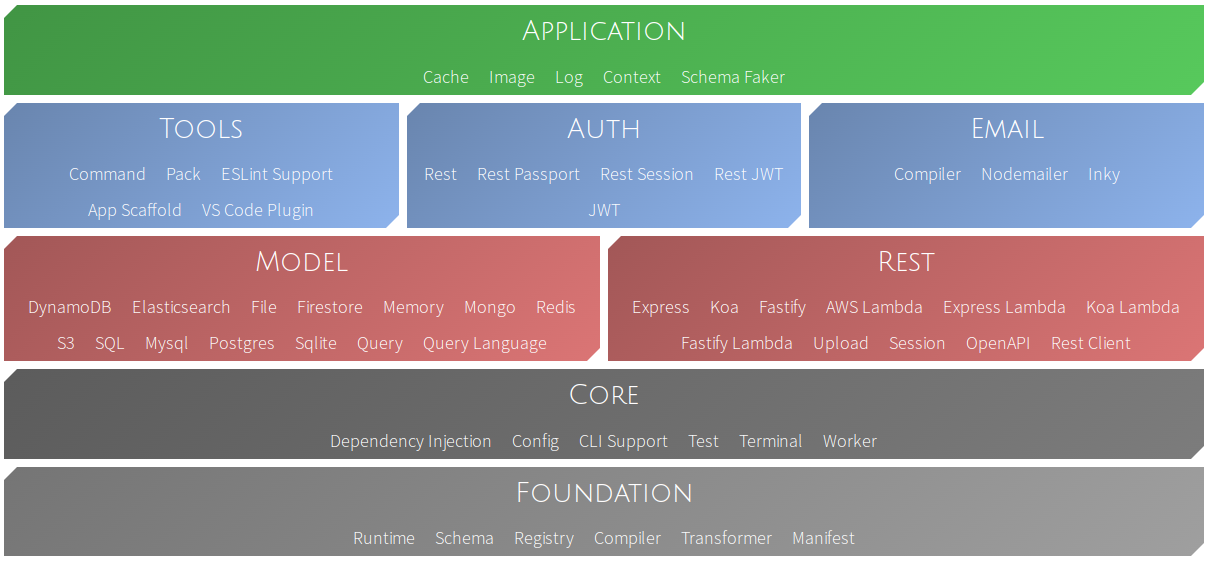
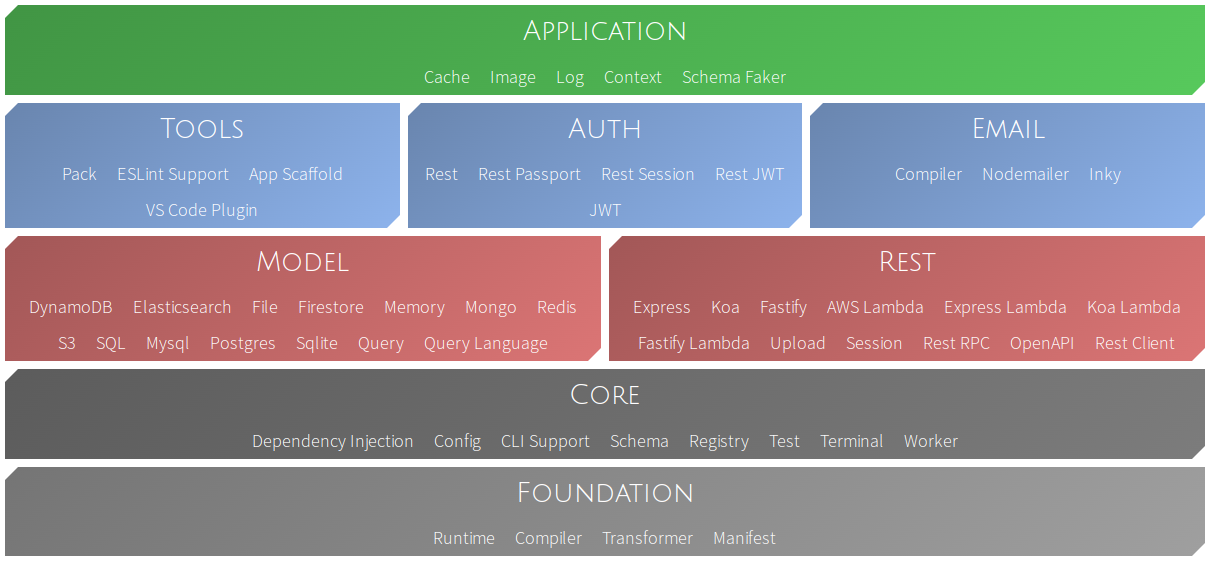
feat(worker): Standardizing api

diff --git a/module/worker/src/ipc.ts b/module/worker/src/ipc.ts
@@ -1,0 +1,104 @@
+import { ShutdownManager } from '@travetto/runtime';
+import { ChildProcess } from 'node:child_process';
+import { EventEmitter } from 'node:events';
+
+/**
+ * Channel that represents ipc communication
+ */
+export class IpcChannel<V = unknown> {
+
+  #emitter = new EventEmitter();
+  proc: NodeJS.Process | ChildProcess;
+  parentId: number;
+
+  constructor(proc: NodeJS.Process | ChildProcess = process) {
+    this.proc = proc;
+    this.parentId = process.pid;
+
+    // Close on shutdown
+    ShutdownManager.onGracefulShutdown(() => this.destroy(), this);
+
+    this.proc.on('message', (ev: { type: string }) => {
+      console.debug('Received', { pid: this.parentId, id: this.id, type: ev.type });
+      this.#emitter.emit(ev.type, ev);
+      this.#emitter.emit('*', ev);
+    });
+  }
+
+  /**
+   * Gets channel unique identifier
+   */
+  get id(): number | undefined {
+    return this.proc.pid;
+  }
+
+  /**
+   * Determines if channel is active
+   */
+  get active(): boolean {
+    return (this.proc instanceof ChildProcess) ? !this.proc.killed : !!this.proc.connected;
+  }
+
+  /**
+   * Send data to the parent
+   */
+  send(eventType: string, data?: Record<string, unknown>): void {
+    console.debug('Sending', { pid: this.parentId, id: this.id, eventType });
+    if (!this.active) {
+      throw new Error('Cannot send message to inactive process');
+    } else if (this.proc.send && this.proc.connected) {
+      this.proc.send({ ...(data ?? {}), type: eventType }, (err) => err && console.error(err));
+    } else {
+      throw new Error('this.proc.send was not defined');
+    }
+  }
+
+  /**
+   * Listen for a specific message type
+   */
+  on(eventType: string, callback: (e: V & { type: string }) => unknown | void): () => void {
+    this.#emitter.on(eventType, callback);
+    return () => this.off(eventType, callback);
+  }
+
+  /**
+   * Remove event listener
+   */
+  off(eventType: string, callback: (e: V & { type: string }) => unknown | void): void {
+    this.#emitter.off(eventType, callback);
+  }
+
+  /**
+   * Listen for a specific message type, once
+   */
+  once(eventType: string): Promise<V & { type: string }> {
+    return new Promise(res => this.#emitter.once(eventType, res));
+  }
+
+  /**
+   * Destroy self
+   */
+  async destroy(): Promise<void> {
+    if (this.active) {
+      const complete = this.proc instanceof ChildProcess ?
+        new Promise<void>(r => this.proc.on('close', r)) :
+        undefined;
+
+      console.debug('Killing', { pid: this.parentId, id: this.id });
+      if (!('argv' in this.proc)) {
+        this.proc.kill();
+      }
+
+      await complete;
+    }
+    this.release();
+  }
+
+  /**
+   * Remove all listeners, but do not destroy
+   */
+  release(): void {
+    console.debug('Released', { pid: this.parentId, id: this.id });
+    this.#emitter.removeAllListeners();
+  }
+}

diff --git a/related/travetto.github.io/src/app/documentation/pages.ts b/related/travetto.github.io/src/app/documentation/pages.ts
@@ -220,6 +220,14 @@ export const PAGES = [
         loadComponent: (): Promise<Type<unknown>> => import('./gen/cli/cli.component').then(m => m.CliComponent)
       },
       {
+        path: 'schema', title: 'Schema',
+        loadComponent: (): Promise<Type<unknown>> => import('./gen/schema/schema.component').then(m => m.SchemaComponent)
+      },
+      {
+        path: 'registry', title: 'Registry',
+        loadComponent: (): Promise<Type<unknown>> => import('./gen/registry/registry.component').then(m => m.RegistryComponent)
+      },
+      {
         path: 'test', title: 'Test',
         loadComponent: (): Promise<Type<unknown>> => import('./gen/test/test.component').then(m => m.TestComponent)
       },
@@ -238,14 +246,6 @@ export const PAGES = [
       {
         path: 'runtime', title: 'Runtime',
         loadComponent: (): Promise<Type<unknown>> => import('./gen/runtime/runtime.component').then(m => m.BaseComponent)
-      },
-      {
-        path: 'schema', title: 'Schema',
-        loadComponent: (): Promise<Type<unknown>> => import('./gen/schema/schema.component').then(m => m.SchemaComponent)
-      },
-      {
-        path: 'registry', title: 'Registry',
-        loadComponent: (): Promise<Type<unknown>> => import('./gen/registry/registry.component').then(m => m.RegistryComponent)
       },
       {
         path: 'compiler', title: 'Compiler',

diff --git a/module/test/src/worker/standard.ts b/module/test/src/worker/standard.ts
@@ -1,7 +1,7 @@
 import { fork } from 'node:child_process';
 
 import { Env, RuntimeIndex } from '@travetto/runtime';
-import { ParentCommChannel } from '@travetto/worker';
+import { IpcChannel } from '@travetto/worker';
 
 import { Events, TestLogEvent } from './types';
 import { TestConsumer } from '../consumer/types';
@@ -23,7 +23,7 @@ export async function buildStandardTestManager(consumer: TestConsumer, run: Test
   const { module } = RuntimeIndex.getFromImport(run.import)!;
   const suiteMod = RuntimeIndex.getModule(module)!;
 
-  const channel = new ParentCommChannel<TestEvent & { error?: Error }>(
+  const channel = new IpcChannel<TestEvent & { error?: Error }>(
     fork(
       RuntimeIndex.resolveFileImport('@travetto/cli/support/entry.trv'), ['test:child'],
       {

diff --git a/module/test/src/worker/child.ts b/module/test/src/worker/child.ts
@@ -1,7 +1,7 @@
 import { createWriteStream } from 'node:fs';
 
 import { ConsoleManager, Env, Util, Runtime } from '@travetto/runtime';
-import { ChildCommChannel } from '@travetto/worker';
+import { IpcChannel } from '@travetto/worker';
 
 import { SerializeUtil } from '../consumer/serialize';
 import { RunnerUtil } from '../execute/util';
@@ -13,7 +13,7 @@ import { TestRun } from '../model/test';
  * Child Worker for the Test Runner.  Receives events as commands
  * to run specific tests
  */
-export class TestChildWorker extends ChildCommChannel<TestRun> {
+export class TestChildWorker extends IpcChannel<TestRun> {
 
   #done = Util.resolvablePromise();
 

diff --git a/module/test/src/consumer/types/execution.ts b/module/test/src/consumer/types/execution.ts
@@ -1,4 +1,4 @@
-import { ChildCommChannel } from '@travetto/worker';
+import { IpcChannel } from '@travetto/worker';
 
 import { TestEvent } from '../../model/event';
 import { TestConsumer } from '../types';
@@ -9,8 +9,7 @@ import { Consumable } from '../registry';
  * Triggers each event as an IPC command to a parent process
  */
 @Consumable('exec')
-export class ExecutionEmitter extends ChildCommChannel<TestEvent> implements TestConsumer {
-
+export class ExecutionEmitter extends IpcChannel<TestEvent> implements TestConsumer {
   onEvent(event: TestEvent): void {
     this.send(event.type, JSON.parse(SerializeUtil.serializeToJSON(event)));
   }

diff --git a/module/worker/__index__.ts b/module/worker/__index__.ts
@@ -1,5 +1,2 @@
-export * from './src/ipc/channel';
-export * from './src/ipc/child';
-export * from './src/ipc/parent';
-export * from './src/ipc/types';
+export * from './src/ipc';
 export * from './src/pool';
